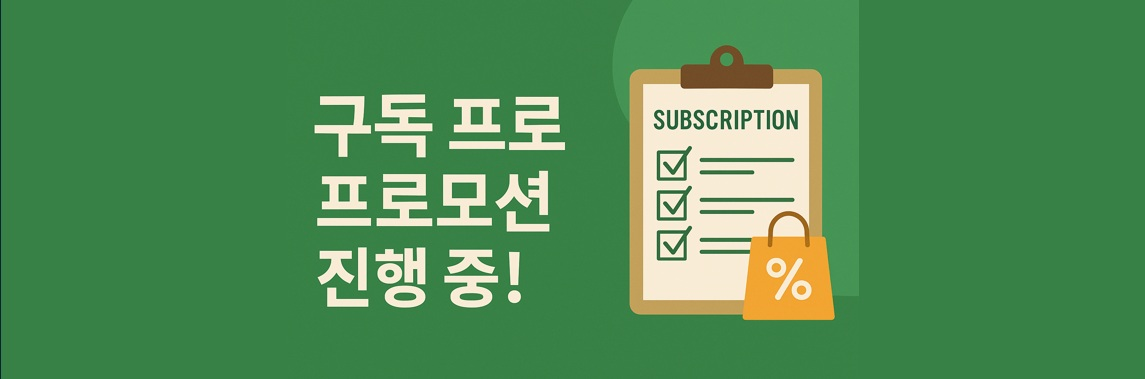
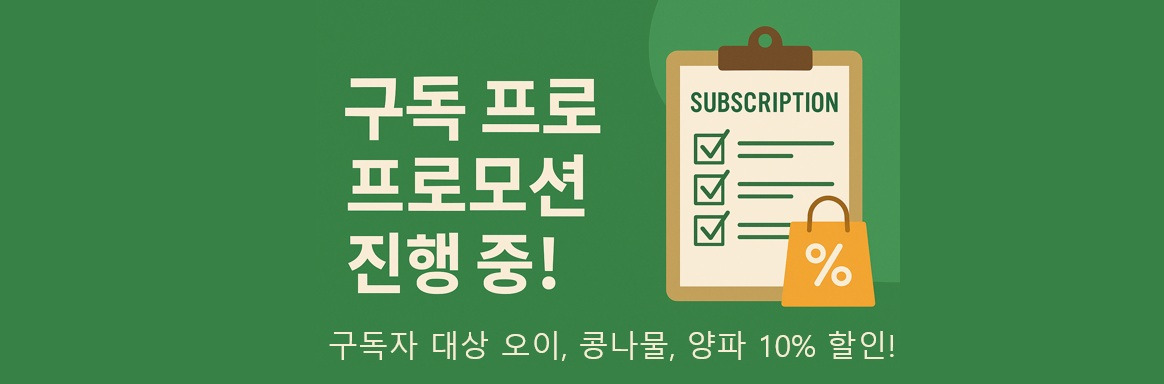
update

Changed region(s): [[0.2751, 0.058, 0.7948, 0.9578], [0.2751, 0.1741, 0.5197, 0.8127]]

diff --git a/templates/product_detail.html b/templates/product_detail.html
@@ -201,6 +201,12 @@
                 </p>
                 {% endif %}
 
+                {% if is_discount_item %}
+                <p style="margin-top: 10px; font-size: 16px; font-weight: bold; color: #2e7d32;">
+                    🎉 구독 고객의 경우 10% 할인! → {{ "{:,.0f}".format(discount_price) }} 원
+                </p>
+                {% endif %}               
+
             </div>
         </div>
 
@@ -211,6 +217,26 @@
             <a href="{{ url_for('wishlist') }}" class="view-cart">🧺 장바구니 보기</a>
         </div>
 
+        <div class="related-section">
+            {% if low_delay_products|length > 0 %}
+                <h3>📦 배송 지연 가능성이 낮은 유사 상품!</h3>
+                <div class="related-list">
+                    {% for p in low_delay_products %}
+                    <div class="related-item">
+                        <a href="{{ url_for('product_detail', product_id=p.product_id) }}">
+                            <img src="{{ url_for('static', filename='images/' + p.product_id + '.jpg') }}">
+                            <div>{{ p.name }}</div>
+                            <div>{{ "{:,.0f}".format(p.price) }} 원</div>
+                            <div style="font-size: 13px; color: #888;">지연율: {{ p.delay_prob }}%</div>
+                        </a>
+                    </div>
+                    {% endfor %}
+                </div>
+            {% else %}
+                <h3>📦 유사한 저지연 상품을 찾지 못했습니다.</h3>
+            {% endif %}
+        </div>
+        
 
         <div class="related-section">
             <h3>다른 고객이 함께 본 상품! 이런 제품은 어떠세요?</h3>

diff --git a/app.py b/app.py
@@ -199,12 +199,60 @@ def product_detail(product_id):
 
     is_best_brand = product.get('우수브랜드', 0) == 1  # True or False
 
+    discount_names = ['오이', '콩나물', '양파']
+    is_discount_item = any(name in product['name'] for name in discount_names)
+
+    discount_price = None
+    if is_discount_item:
+        discount_price = round(product['price'] * 0.9)
+
+    low_delay_products = []
+
+    if delay_prob is not None and delay_prob >= 30:
+        same_category_df = product_df[product_df['물품대분류'] == product['물품대분류']].copy()
+
+        # 지연율 계산
+        results = []
+        for _, row in same_category_df.iterrows():
+            if row['product_id'] == product['product_id']:
+                continue  # 본인 제외
+
+            try:
+                pred_prob = delay_prediction.predict_delay(
+                    time_segment=time_segment,
+                    day_of_week=day_of_week,
+                    category=row['카테고리 분류'],
+                    eco_flag=row['친환경'],
+                    fresh_flag=row['신선'],
+                    damaged_flag=row['파손/외관 손상 등 위험']
+                )
+                if pred_prob <= 30:
+                    results.append({
+                        'product_id': row['product_id'],
+                        'name': row['name'],
+                        'price': row['price'],
+                        'delay_prob': pred_prob
+                    })
+            except:
+                continue
+
+        # 가장 낮은 지연율 순으로 3개
+        low_delay_products = sorted(results, key=lambda x: x['delay_prob'])[:3]
+
+        print("🟡 지연율 높은 제품:", product['name'], "→ 지연율:", delay_prob)
+        print("🔵 동일 카테고리 내 저지연 제품 후보 수:", len(low_delay_products))
+        for item in low_delay_products:
+            print("    🔹", item['name'], "지연율:", item['delay_prob'])
+
     return render_template(
         'product_detail.html',
         product=product,
         related_products=related_products,
         delay_prob=delay_prob,
-        is_best_brand=is_best_brand
+        is_best_brand=is_best_brand,
+        is_discount_item=is_discount_item,
+        discount_price=discount_price,
+        low_delay_products=low_delay_products
     )
 
 
